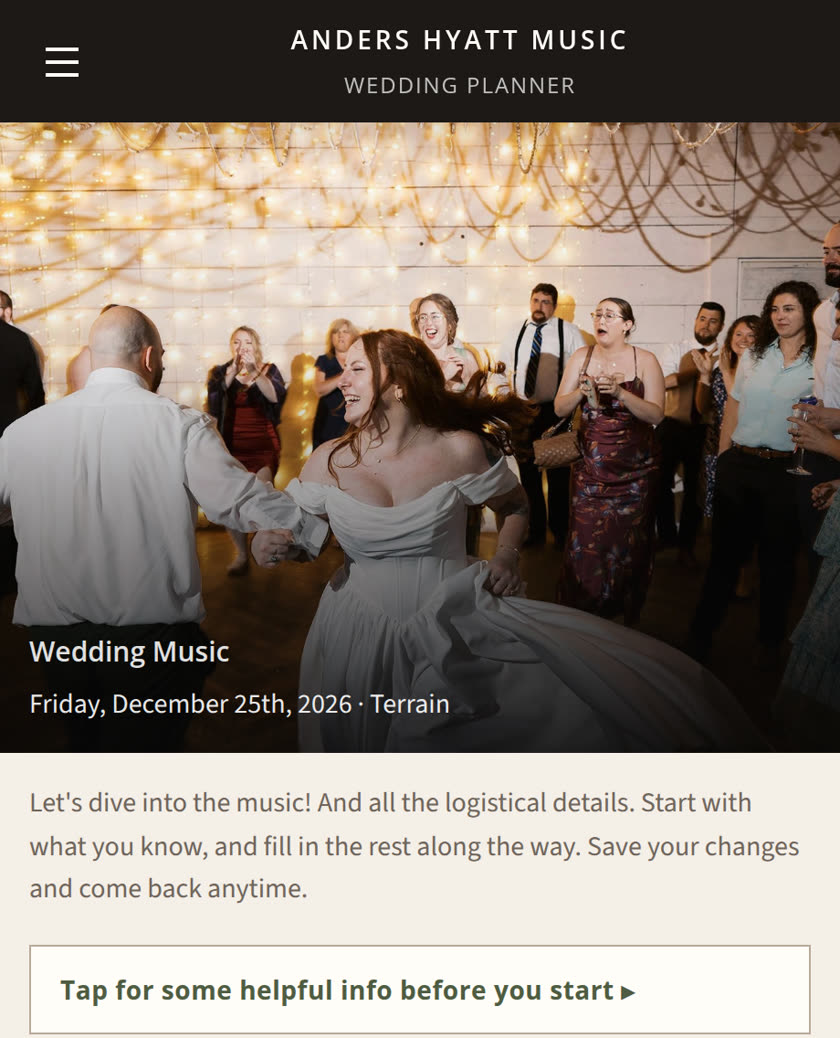
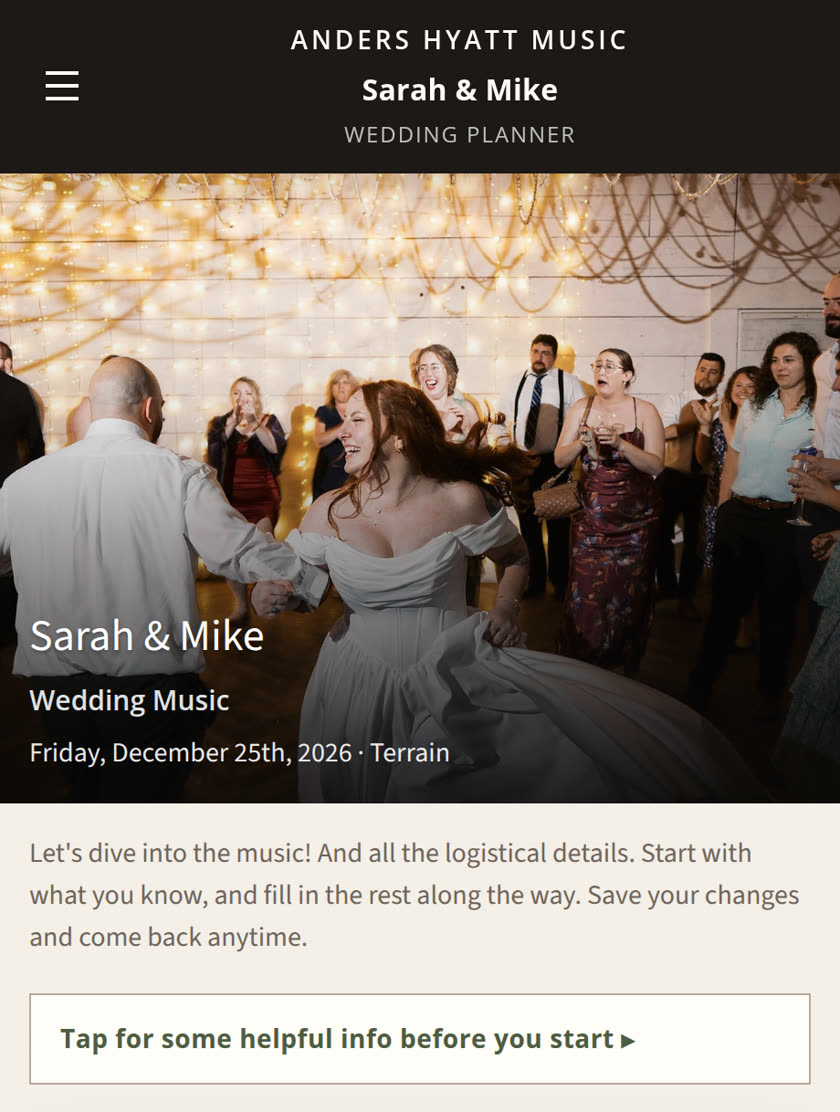
Show Sarah and Mike in the planner shots and title the reviews.
The home about line now says “the photo booth,” and a Josefin Reviews title sits above the existing reviews heading.

diff --git a/src/pages/Home.tsx b/src/pages/Home.tsx
@@ -8,7 +8,7 @@ import { reviewListings } from '../data/reviews'
 import './Home.css'
 
 const homeAbout =
-  'Great live music makes a gathering feel special. Anders Hyatt Music brings acoustic performances to weddings and events in the Philadelphia area and worldwide, with songs you love and personal requests that make the day your own. When it’s time to dance, we switch seamlessly to DJ services, giving you one familiar team throughout the celebration. Add a photo booth for a little extra fun.'
+  'Great live music makes a gathering feel special. Anders Hyatt Music brings acoustic performances to weddings and events in the Philadelphia area and worldwide, with songs you love and personal requests that make the day your own. When it’s time to dance, we switch seamlessly to DJ services, giving you one familiar team throughout the celebration. Add the photo booth for a little extra fun.'
 
 const catherineLead =
   "Anders was the perfect choice for our wedding musician. We had a 70 guest wedding at an indoor-outdoor venue. Our venue had recommended Anders when we explained what we were looking for. Throughout the process, Anders was communicative and helpful. He saw and fully understood our vision for the pre-ceremony, ceremony, cocktail hour and dancing flow. Having instrumental acoustic guitar and violin during the pre-ceremony and ceremony, then acoustic with vocals during the cocktail hour was toward the top of our priority list. Nearly all of our guests were amazed and commented on Anders' performance--they were a huge hit!"
@@ -168,6 +168,9 @@ export default function Home() {
           </ul>
         </section>
 
+        <div className="home-reviews-title">
+          <DisplayTitle as="h2">Reviews</DisplayTitle>
+        </div>
         <h2 className="home-reviews-heading">From the people who’ve hired us</h2>
         <div className="home-ratings">
           <p>

diff --git a/src/pages/Home.css b/src/pages/Home.css
@@ -252,6 +252,18 @@
   box-shadow: 0 8px 22px rgba(28, 25, 22, 0.12);
 }
 
+.home-reviews-title {
+  margin-top: 1.75rem;
+}
+
+.home-reviews-title .display-title {
+  margin-bottom: 0.15rem;
+}
+
+.home-reviews-title + .home-reviews-heading {
+  margin-top: 0.2rem;
+}
+
 .home-reviews-heading {
   margin: 1.75rem auto 0.55rem;
   max-width: 18em;
@@ -346,8 +358,12 @@
     margin-left: auto;
   }
 
-  .home-reviews-heading {
+  .home-reviews-title {
     margin-top: 1.35rem;
+  }
+
+  .home-reviews-title + .home-reviews-heading {
+    margin-top: 0.15rem;
     font-size: 24px;
   }
 
